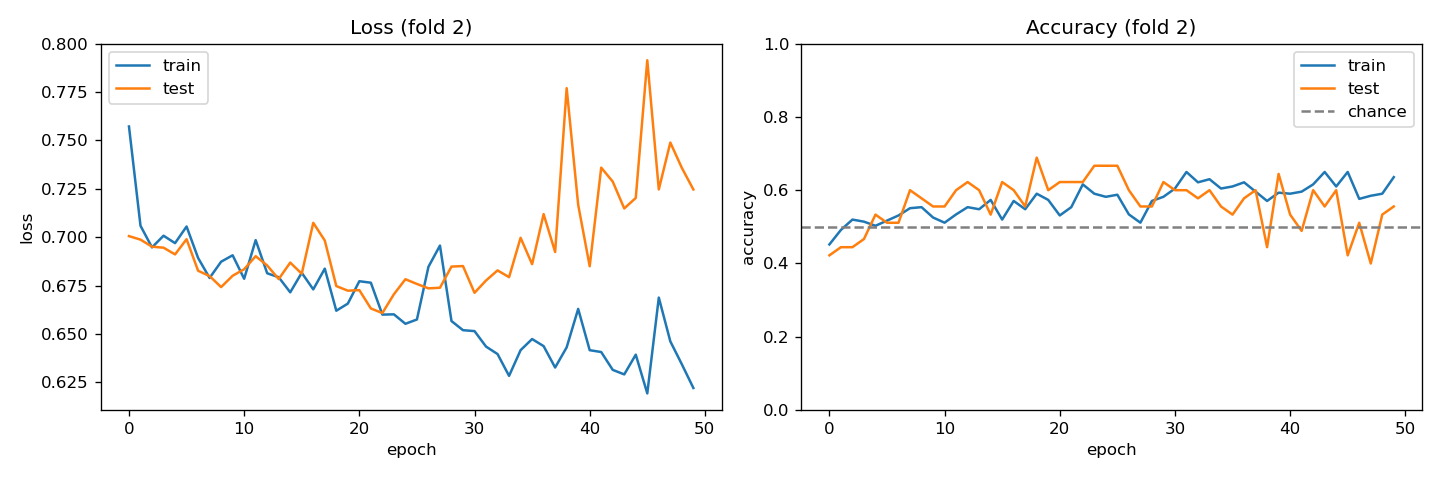
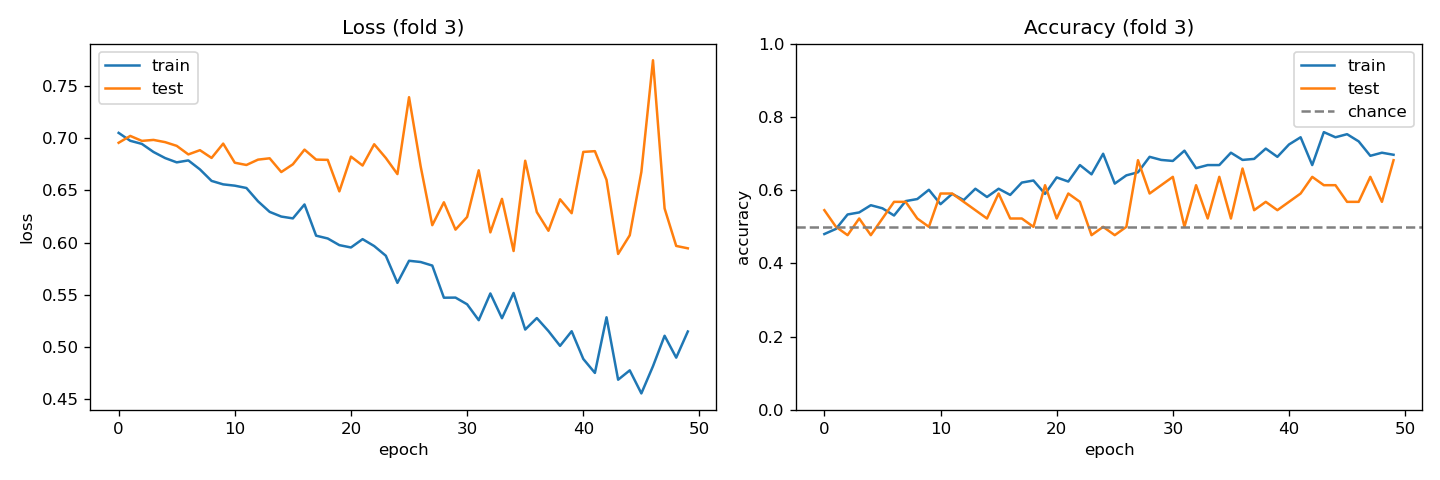
figured out major issue of vis=0 frames being stored, improved performance by a decent amouont

diff --git a/model.py b/model.py
@@ -109,12 +109,39 @@ def realign_to_release(X, release_frames, target=RELEASE_TARGET_FRAME):
     return aligned
 
 
+def replace_failed_frames(raw_kps, threshold=0.3):
+    # MediaPipe stores failed detections as (x=0, y=0, vis=0). Letting those zero
+    # pulses through forces the CNN to learn around a "wrist teleports to origin"
+    # artifact. For each joint independently, linearly interpolate the (x, y) over
+    # frames where vis < threshold, and edge-fill at the boundaries. If a joint has
+    # no valid frames in the entire shot (e.g. left arm fully occluded), leave it
+    # at (0, 0) — there's nothing to interpolate from.
+    cleaned = raw_kps[:, :, :, :2].copy()
+    bad = raw_kps[:, :, :, 2] < threshold
+    T = cleaned.shape[1]
+    n_fixed = 0
+    for i in range(cleaned.shape[0]):
+        for j in range(cleaned.shape[2]):
+            n_bad = int(bad[i, :, j].sum())
+            if n_bad == 0 or n_bad == T:
+                continue
+            for c in range(2):
+                s = pd.Series(np.where(bad[i, :, j], np.nan, cleaned[i, :, j, c]))
+                s = s.interpolate(limit_direction='both')
+                cleaned[i, :, j, c] = s.values
+            n_fixed += n_bad
+    return cleaned, n_fixed
+
+
 def load_data():
     feat_df = pd.read_csv(FEATURES)
-    positions = np.stack([
-        np.load(KEYPOINTS_DIR / fn)[:, :, :2]   # drop visibility channel
-        for fn in feat_df['filename']
-    ])
+    raw_kps = np.stack([
+        np.load(KEYPOINTS_DIR / fn) for fn in feat_df['filename']
+    ])   # (N, 30, 9, 3) — keep visibility briefly for the cleanup step
+
+    positions, n_fixed = replace_failed_frames(raw_kps)
+    total = raw_kps.shape[0] * raw_kps.shape[1] * raw_kps.shape[2]
+    print(f"  cleaned {n_fixed} failed-detection joint-frames out of {total} ({n_fixed/total:.1%})")
     positions = positions.reshape(positions.shape[0], 30, 18)
 
     # Velocity = frame-to-frame delta. Captures speed of motion, which the engineered

diff --git a/results_summary.py b/results_summary.py
@@ -17,7 +17,7 @@ RESULTS = [
     ('Logistic regression', 'baseline',  222, 0.436, 0.039, 0.446, 0.026),
     ('Random forest',       'baseline',  222, 0.459, 0.052, 0.496, 0.047),
     ('Gradient boosting',   'baseline',  222, 0.520, 0.055, 0.518, 0.047),
-    ('1D CNN (aligned)',    'sequence',  222, 0.599, 0.050, 0.608, 0.043),
+    ('1D CNN (aligned)',    'sequence',  222, 0.660, 0.066, 0.617, 0.049),
 ]
 
 df = pd.DataFrame(RESULTS, columns=['model', 'family', 'n_shots',

diff --git a/figs/all_models_results.md b/figs/all_models_results.md
@@ -1,6 +1,6 @@
 | Model | Dataset | AUC (CV) | Accuracy (CV) |
 |---|---|---|---|
-| 1D CNN (aligned) | 222 shots | 0.599 ± 0.050 | 0.608 ± 0.043 |
+| 1D CNN (aligned) | 222 shots | 0.660 ± 0.066 | 0.617 ± 0.049 |
 | Gradient boosting | 222 shots | 0.520 ± 0.055 | 0.518 ± 0.047 |
 | Random forest | 222 shots | 0.459 ± 0.052 | 0.496 ± 0.047 |
 | Logistic regression | 222 shots | 0.436 ± 0.039 | 0.446 ± 0.026 |
